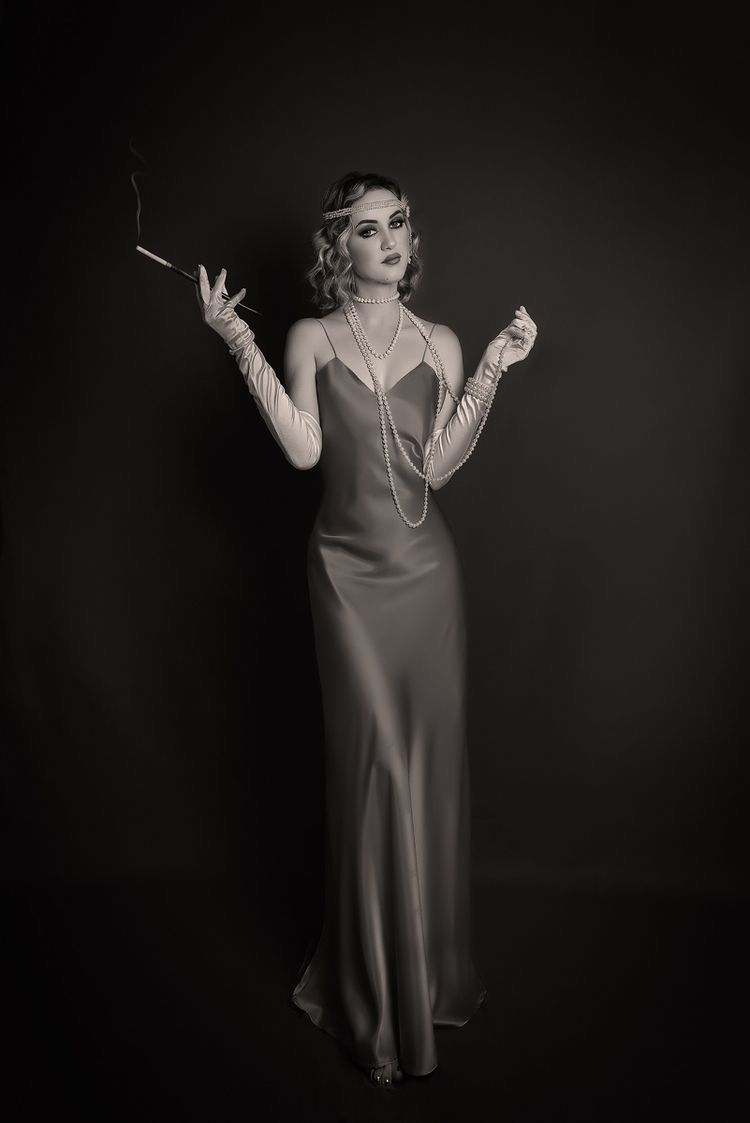
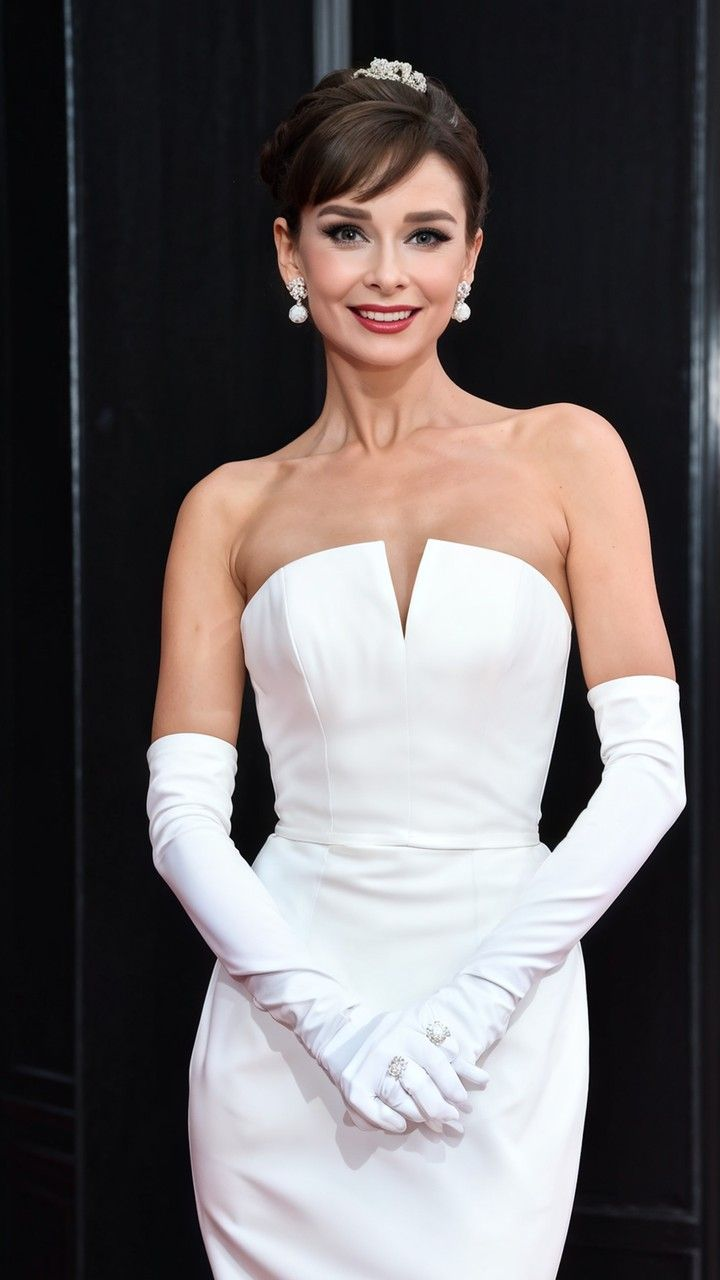
test

diff --git a/src/components/DressCode.tsx b/src/components/DressCode.tsx
@@ -66,15 +66,7 @@ export default function DressCodeSimple() {
           >
             Эрчүүд
           </Typography>
-          <Typography
-            variant="body1"
-            sx={{
-              color: "text.secondary",
-              mb: 2,
-            }}
-          >
-            Смокинг, гурван хэсэгтэй костюм, федора малгай, зангиа эсвэл хантаазтай хослол.
-          </Typography>
+         
 
           <Box
             sx={{
@@ -124,15 +116,7 @@ export default function DressCodeSimple() {
           >
             Эмэгтэйчүүд
           </Typography>
-          <Typography
-            variant="body1"
-            sx={{
-              color: "text.secondary",
-              mb: 2,
-            }}
-          >
-            Флэппер даашинз, өдөн ороолт, урт бээлий, сувдан зүүлт, гялалзсан урт даашинз.
-          </Typography>
+         
 
           <Box
             sx={{
